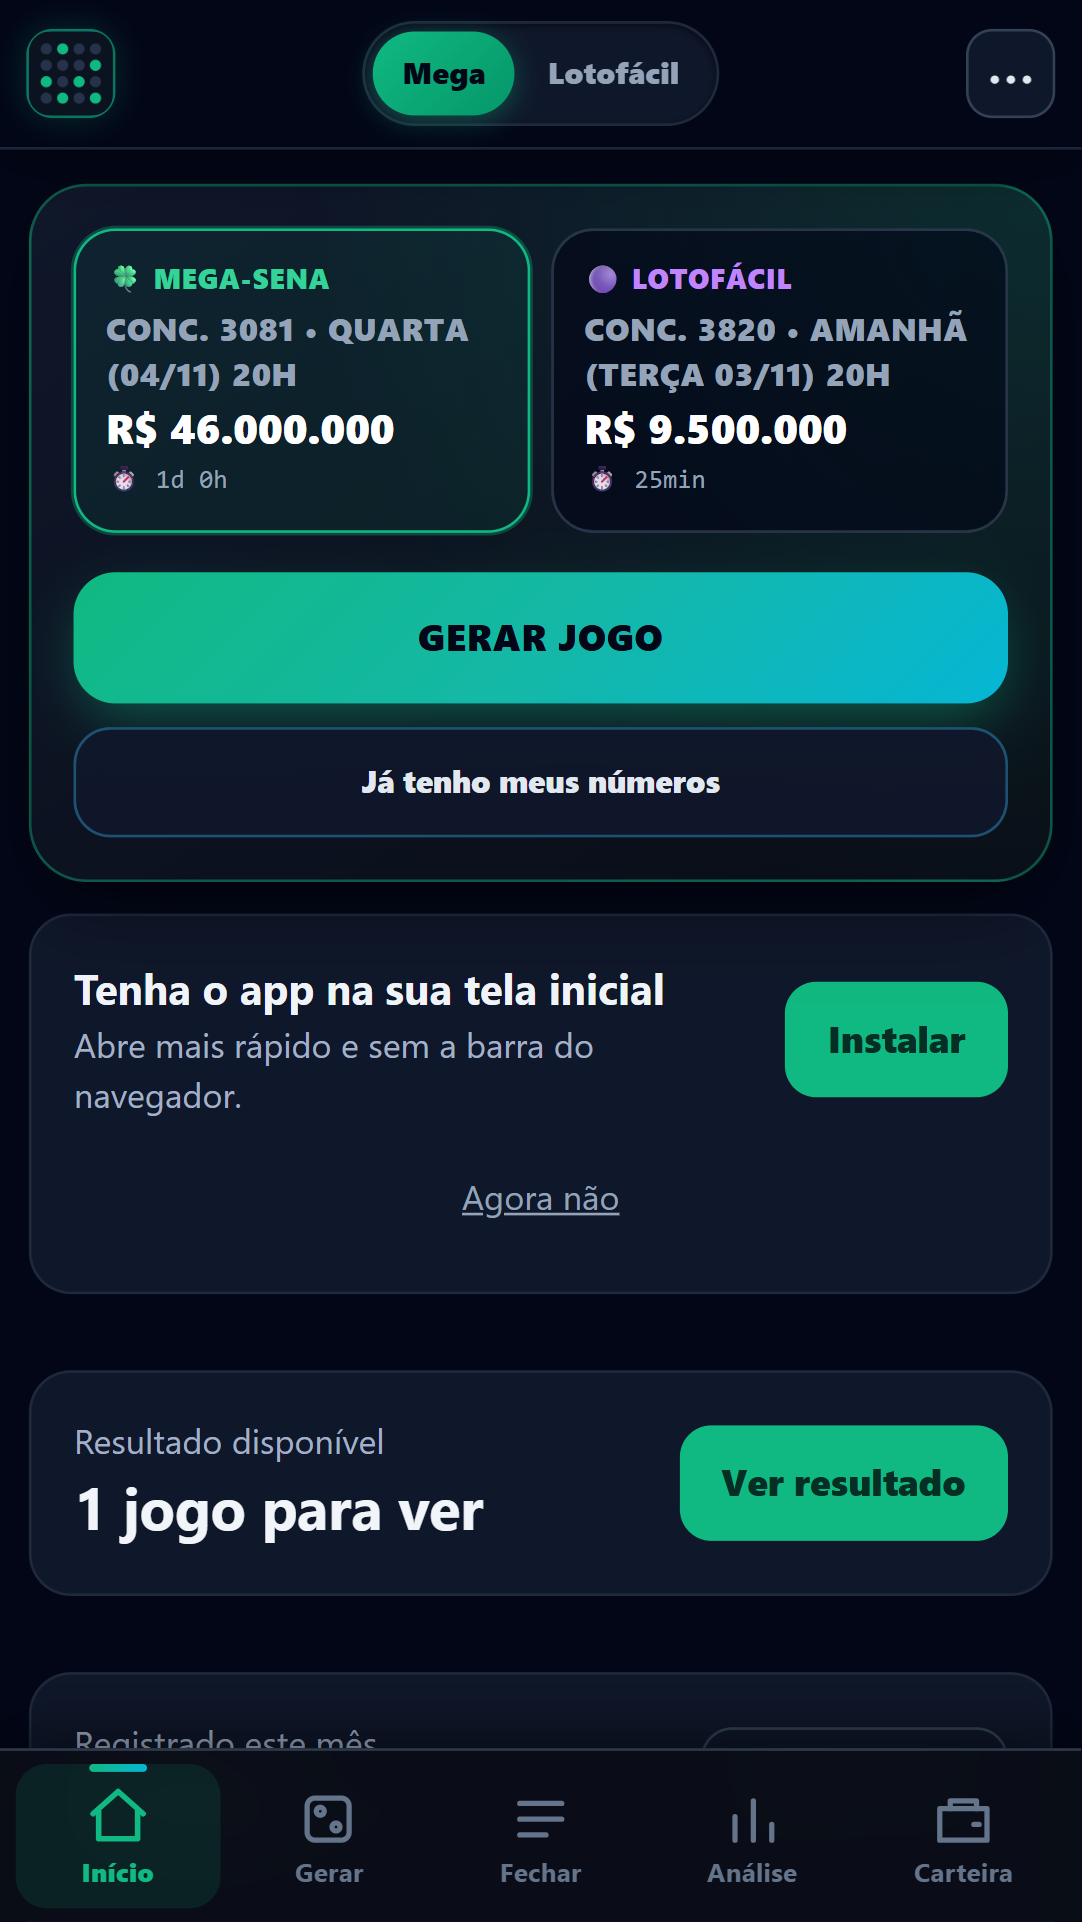
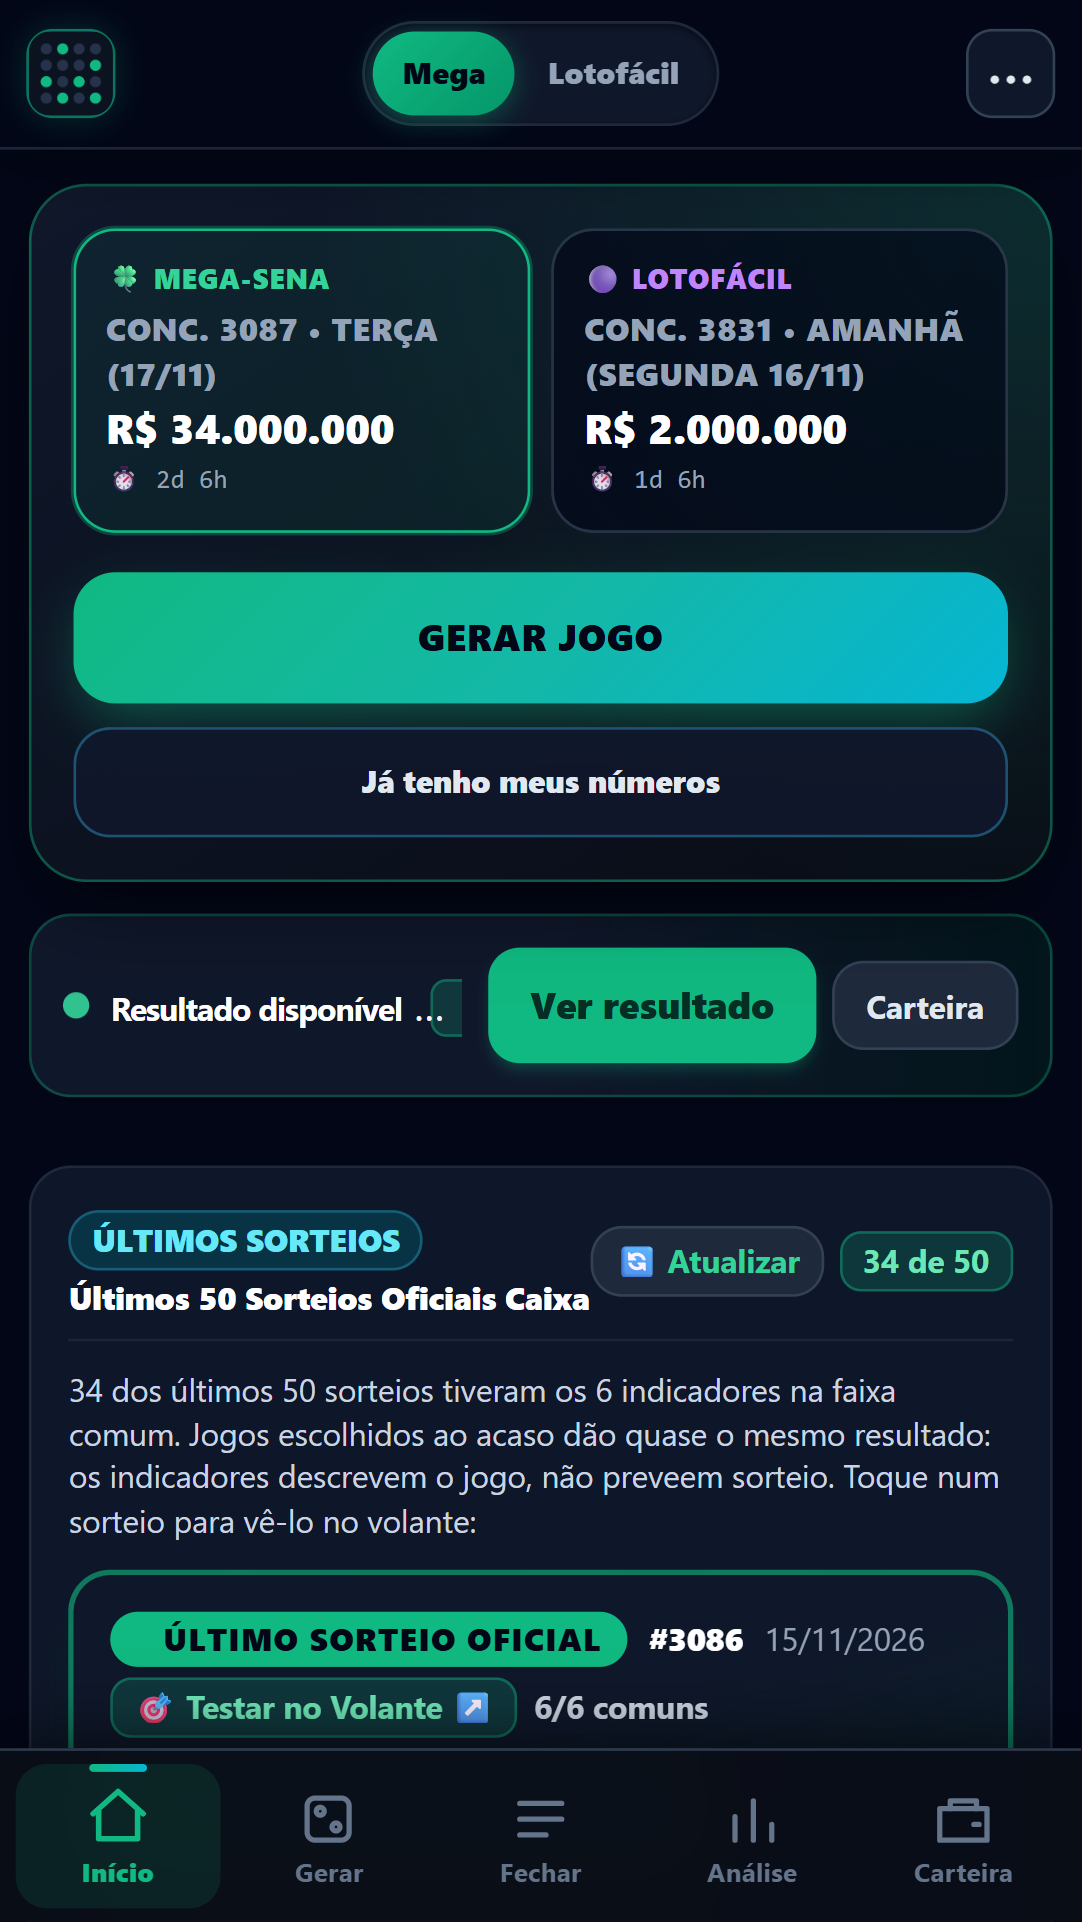
chore(play): capturas no modo loja, ficha, privacidade e historico
- Capturas da loja refeitas como no app da loja (sem venda nem botao
  de instalar), com a tela Gerar nova e uma do bolao. O gerador ganhou
  --so-capturas para nao refazer as artes do Instagram.
- Cartao "Instalar" nunca aparece no app da loja.
- Ficha: bolao sem movimentar dinheiro, IDs de usuario na seguranca
  dos dados e instrucao de acesso com conta de teste para o revisor.
- Privacidade nomeia a VBJ Solucoes como controladora.
- Historico registra o ciclo de 15/11 e as pendencias do Console.

diff --git a/index.html b/index.html
@@ -8,65 +8,65 @@
       localStorage.removeItem('loterias_nasa_historico');
     } catch (_) {}
   </script>
-  <script src="./js/error-trap.js?v=20261115.02"></script>
+  <script src="./js/error-trap.js?v=20261115.03"></script>
   <link rel="manifest" href="./manifest.json" />
-  <script src="./supabase/config.js?v=20261115.02"></script>
+  <script src="./supabase/config.js?v=20261115.03"></script>
   <script src="https://cdn.jsdelivr.net/npm/@supabase/supabase-js@2"></script>
   <!-- Google Identity Services (Google Sign-In) -->
   <script src="https://accounts.google.com/gsi/client" async defer></script>
   <!-- Redesign Meu Volante PRO (Resizable Desktop Sidebar + Clear Typography) -->
-  <link rel="stylesheet" href="./css/redesign.css?v=20261115.02" />
-  <script src="./js/redesign.js?v=20261115.02" defer></script>
+  <link rel="stylesheet" href="./css/redesign.css?v=20261115.03" />
+  <script src="./js/redesign.js?v=20261115.03" defer></script>
   <!-- Upgrade Modal (Elegant Checkout) -->
-  <link rel="stylesheet" href="./css/upgrade-modal.css?v=20261115.02" />
-  <script src="./js/upgrade-modal.js?v=20261115.02" defer></script>
+  <link rel="stylesheet" href="./css/upgrade-modal.css?v=20261115.03" />
+  <script src="./js/upgrade-modal.js?v=20261115.03" defer></script>
   <!-- Gerar Simplificada (Mobile-first, accessibility) -->
-  <link rel="stylesheet" href="./css/gerar-simplificado.css?v=20261115.02" />
+  <link rel="stylesheet" href="./css/gerar-simplificado.css?v=20261115.03" />
   <!-- Admin Dashboard (Professional Management) -->
-  <link rel="stylesheet" href="./css/admin-dashboard.css?v=20261115.02" />
-  <script src="./js/admin-dashboard.js?v=20261115.02" defer></script>
-  <script src="./js/admin-charts.js?v=20261115.02" defer></script>
+  <link rel="stylesheet" href="./css/admin-dashboard.css?v=20261115.03" />
+  <script src="./js/admin-dashboard.js?v=20261115.03" defer></script>
+  <script src="./js/admin-charts.js?v=20261115.03" defer></script>
   <!-- Micro-interactions (Sounds, Haptic, Animations) -->
-  <script src="./js/micro-interactions.js?v=20261115.02" defer></script>
+  <script src="./js/micro-interactions.js?v=20261115.03" defer></script>
   <!-- Science Gate (enforcement real do paywall + teaser dos 6 testes) -->
   <!-- Créditos de análise grátis (3 por cadastro, sem prazo) -->
-  <script src="./js/creditos-gratis.js?v=20261115.02" defer></script>
-  <script src="./js/science-gate.js?v=20261115.02" defer></script>
+  <script src="./js/creditos-gratis.js?v=20261115.03" defer></script>
+  <script src="./js/science-gate.js?v=20261115.03" defer></script>
   <!-- Caminho A: "Já tenho meus números" -->
-  <script src="./js/analisar-numeros.js?v=20261115.02" defer></script>
+  <script src="./js/analisar-numeros.js?v=20261115.03" defer></script>
   <!-- OAuth Login (Google + Meta) -->
-  <script src="./js/oauth-login.js?v=20261115.02" defer></script>
+  <script src="./js/oauth-login.js?v=20261115.03" defer></script>
   <!-- Testadores VIP & Feedbacks Periódicos -->
-  <script src="./js/feedback-testadores.js?v=20261115.02" defer></script>
+  <script src="./js/feedback-testadores.js?v=20261115.03" defer></script>
   <!-- Lead Capture (Email/WhatsApp on Home) -->
-  <script src="./js/lead-capture.js?v=20261115.02" defer></script>
+  <script src="./js/lead-capture.js?v=20261115.03" defer></script>
   <!-- Menu Fix (ensure bottom tab bar always visible) -->
-  <script src="./js/menu-fix.js?v=20261115.02" defer></script>
+  <script src="./js/menu-fix.js?v=20261115.03" defer></script>
   <!-- Acesso direto ao portal da Caixa (carrega antes de quem consome) -->
-  <script src="./js/caixa-api.js?v=20261115.02" defer></script>
+  <script src="./js/caixa-api.js?v=20261115.03" defer></script>
   <!-- Sorteios Reais (Real lottery data via APIs) -->
-  <script src="./js/sorteios-reais.js?v=20261115.02" defer></script>
+  <script src="./js/sorteios-reais.js?v=20261115.03" defer></script>
   <!-- Conferência de bilhetes contra o resultado oficial da Caixa -->
-  <script src="./js/conferencia-real.js?v=20261115.02" defer></script>
+  <script src="./js/conferencia-real.js?v=20261115.03" defer></script>
   <!-- Histórico oficial de concursos (base das análises estatísticas) -->
-  <script src="./js/historico-oficial.js?v=20261115.02" defer></script>
-  <script src="./js/historico-real.js?v=20261115.02" defer></script>
+  <script src="./js/historico-oficial.js?v=20261115.03" defer></script>
+  <script src="./js/historico-real.js?v=20261115.03" defer></script>
   <!-- Assinatura: o servidor decide quem é PRO -->
-  <script src="./js/assinatura.js?v=20261115.02" defer></script>
+  <script src="./js/assinatura.js?v=20261115.03" defer></script>
   <!-- Checkout real via Asaas (PIX e cartão) -->
-  <script src="./js/checkout-asaas.js?v=20261115.02" defer></script>
+  <script src="./js/checkout-asaas.js?v=20261115.03" defer></script>
   <!-- Contexto: remove a venda externa quando roda como app da Play Store -->
-  <script src="./js/contexto-loja.js?v=20261115.02" defer></script>
+  <script src="./js/contexto-loja.js?v=20261115.03" defer></script>
   <!-- Simulador Retrospectivo ("E se eu tivesse jogado?") -->
-  <script src="./js/simulador-retrospectivo.js?v=20261115.02" defer></script>
+  <script src="./js/simulador-retrospectivo.js?v=20261115.03" defer></script>
   <!-- Espelho de Volantes para Impressão A4 e PDF -->
-  <script src="./js/volante-impressao.js?v=20261115.02" defer></script>
+  <script src="./js/volante-impressao.js?v=20261115.03" defer></script>
   <!-- Programa de testadores da Google Play -->
-  <script src="./js/testadores-vip.js?v=20261115.02" defer></script>
+  <script src="./js/testadores-vip.js?v=20261115.03" defer></script>
   <!-- Gestão de Carteira em Lotes (High-Capacity UX) -->
-  <script src="./js/carteira-gestao.js?v=20261115.02" defer></script>
+  <script src="./js/carteira-gestao.js?v=20261115.03" defer></script>
   <!-- Telemetria & Calibração Global de Jogos dos Usuários -->
-  <script src="./js/admin-telemetria.js?v=20261115.02" defer></script>
+  <script src="./js/admin-telemetria.js?v=20261115.03" defer></script>
   <link rel="apple-touch-icon" href="./icon-192.png" />
   <meta charset="UTF-8" />
   <meta name="viewport" content="width=device-width, initial-scale=1.0, , viewport-fit=cover" />
@@ -90,7 +90,7 @@
 
   <!-- Chart.js for Admin Dashboard -->
   <script src="https://cdnjs.cloudflare.com/ajax/libs/Chart.js/3.9.1/chart.min.js" defer></script>
-  <link rel="stylesheet" href="./css/tailwind.css?v=20261115.02" />
+  <link rel="stylesheet" href="./css/tailwind.css?v=20261115.03" />
   <script>
       
     // =========================================================================
@@ -2203,21 +2203,21 @@
 
   </main>
 
-  <script src="./js/app.js?v=20261115.02"></script>
-  <link rel="stylesheet" href="./css/fluxo-jogo.css?v=20261115.02" />
-  <script src="./js/cadastro.js?v=20261115.02" defer></script>
-  <script src="./js/eventos.js?v=20261115.02" defer></script>
-  <script src="./js/migrar-app.js?v=20261115.02" defer></script>
-  <script src="./js/instalar.js?v=20261115.02" defer></script>
-  <script src="./js/painel-dono.js?v=20261115.02" defer></script>
-  <script src="./js/vip.js?v=20261115.02" defer></script>
-  <script src="./js/conta.js?v=20261115.02" defer></script>
-  <script src="./js/gastos.js?v=20261115.02" defer></script>
-  <script src="./js/ritual.js?v=20261115.02" defer></script>
-  <script src="./js/fluxo-jogo.js?v=20261115.02" defer></script>
-  <script src="./js/tela-gerar.js?v=20261115.02" defer></script>
-  <script src="./js/bolao.js?v=20261115.02" defer></script>
-  <script src="./js/boas-vindas.js?v=20261115.02" defer></script>
-  <script src="js/whatsapp-share.js?v=20261115.02"></script>
+  <script src="./js/app.js?v=20261115.03"></script>
+  <link rel="stylesheet" href="./css/fluxo-jogo.css?v=20261115.03" />
+  <script src="./js/cadastro.js?v=20261115.03" defer></script>
+  <script src="./js/eventos.js?v=20261115.03" defer></script>
+  <script src="./js/migrar-app.js?v=20261115.03" defer></script>
+  <script src="./js/instalar.js?v=20261115.03" defer></script>
+  <script src="./js/painel-dono.js?v=20261115.03" defer></script>
+  <script src="./js/vip.js?v=20261115.03" defer></script>
+  <script src="./js/conta.js?v=20261115.03" defer></script>
+  <script src="./js/gastos.js?v=20261115.03" defer></script>
+  <script src="./js/ritual.js?v=20261115.03" defer></script>
+  <script src="./js/fluxo-jogo.js?v=20261115.03" defer></script>
+  <script src="./js/tela-gerar.js?v=20261115.03" defer></script>
+  <script src="./js/bolao.js?v=20261115.03" defer></script>
+  <script src="./js/boas-vindas.js?v=20261115.03" defer></script>
+  <script src="js/whatsapp-share.js?v=20261115.03"></script>
 </body>
 </html>

diff --git a/privacidade.html b/privacidade.html
@@ -66,9 +66,9 @@
 
 <h2>1. Quem é o responsável pelos seus dados</h2>
 <p>
-  O controlador dos dados pessoais tratados neste aplicativo é o responsável
-  pelo Meu Volante PRO, que pode ser contatado pelo e-mail
-  <a href="mailto:contato@pd.dev.br">contato@pd.dev.br</a>.
+  O controlador dos dados pessoais tratados neste aplicativo é a VBJ Soluções
+  Empresariais Inteligentes LTDA, responsável pelo Meu Volante PRO, que pode ser
+  contatada pelo e-mail <a href="mailto:contato@pd.dev.br">contato@pd.dev.br</a>.
 </p>
 <p>
   Este é também o canal para dúvidas sobre esta política e para o exercício dos

diff --git a/js/app.js b/js/app.js
@@ -387,7 +387,7 @@
 
       // Registrar Service Worker com Verificação Imediata de Atualizações
       if ('serviceWorker' in navigator) {
-        navigator.serviceWorker.register('./sw.js?v=20261115.02', { scope: './' })
+        navigator.serviceWorker.register('./sw.js?v=20261115.03', { scope: './' })
           .then((reg) => {
             console.log('[Meu Volante PRO] Service Worker registrado. Verificando atualizações...');
             reg.update(); // força verificação no servidor imediatamente

diff --git a/sw.js b/sw.js
@@ -3,8 +3,8 @@
 // Estratégia: Cache-First para assets estáticos, Network-First para dados
 // =========================================================================
 
-const CACHE_NAME = 'loterias-nasa-pro-v20261115.02';
-const CACHE_STATIC = 'nasa-static-v20261115.02';
+const CACHE_NAME = 'loterias-nasa-pro-v20261115.03';
+const CACHE_STATIC = 'nasa-static-v20261115.03';
 
 // Assets críticos para funcionamento offline
 const ASSETS_TO_CACHE = [

diff --git a/js/instalar.js b/js/instalar.js
@@ -22,7 +22,8 @@ window.addEventListener('appinstalled', () => {
 function appJaInstalado() {
   return window.matchMedia('(display-mode: standalone)').matches
     || window.navigator.standalone === true
-    || document.referrer.startsWith('android-app://');
+    || document.referrer.startsWith('android-app://')
+    || Boolean(window.contextoLoja?.ativo?.());
 }
 
 function ehIphone() {

diff --git a/HISTORICO_MEMORIA_PROJETO.md b/HISTORICO_MEMORIA_PROJETO.md
@@ -190,3 +190,32 @@ Antes de mexer, três análises só de leitura (engenharia, jogador/UX e dados) 
 
 ### Regra 4 atualizada
 Rodar `npm run ci` antes de qualquer commit. São 58 testes.
+
+---
+
+## 7. CICLO DE 15/11/2026 — AUDITORIAS E PREPARAÇÃO PARA A GOOGLE PLAY
+
+Três auditorias só de leitura (qualidade, calendário e Google Play) revisaram o que foi feito em 14/11.
+
+### Corrigido e publicado
+- **Datas do próximo sorteio** (`78e1a43`): o app empurrava domingo para terça e juntava duas datas ("Terça (17/11) • 15/11/2026 às 20h"). Desde 19/07/2026 a Caixa sorteia no domingo às 11h. Agora só vale a data oficial da Caixa; sem ela, aparece só o número do concurso. Jogos salvos com duas datas se corrigem ao abrir o app.
+- **Cache** (`a5e7f57`): o `index.html` apagava o cache do app a cada abertura.
+- **Tela inicial** (`a5e7f57`): saíram "100% APROVADO", "Nota 99/100" e "6/6 OK" fixos.
+- **Auditoria de qualidade** (`f6823b9`): gerar com 17 dezenas ou mais travava o app; salvar usava o lote antigo; o mesmo jogo podia ser salvo duas vezes; bolão salvo de novo duplicava na nuvem; voltar ao Gerar deixava a aba Bolão aberta; outros itens menores.
+- **Google Play** (`f6823b9`): modo loja persistente no aparelho; plano liberado mesmo depois do login; sem selos PRO, chip de plano, botão de testadores, "Conhecer recursos" e atalho para o portal de apostas no app da loja; textos de "nota", "calibração", "ciência" e "viciadas" removidos.
+- Capturas da loja refeitas como no app da loja, com uma do bolão. Política de privacidade nomeia a VBJ Soluções Empresariais Inteligentes LTDA.
+
+### Fatos conferidos (fontes oficiais, 15/11/2026)
+- **Teste fechado:** a página oficial (support.google.com/googleplay/android-developer/answer/14151465) exige **12 testadores por 14 dias** só para contas **pessoais** criadas depois de 13/11/2023. A conta é de organização (VBJ Soluções); conferir no Painel do Console se a exigência aparece. O número "20 testadores" das seções 1 e 4 está desatualizado.
+- **API alvo:** app novo precisa mirar API 36. O pacote `android/MeuVolantePRO-v6.aab` (versionCode 6, targetSdk 36) foi gerado em 15/11/2026 e assinado com a chave de upload.
+- **Pagamentos:** não há exceção oficial ao Play Billing para o Brasil. O app da loja não pode mostrar preço nem levar a pagamento externo.
+- **Gradle no Windows:** não compila em pasta com acento ("Vitório PC"). Copiar `android/` para uma pasta sem acento antes de rodar `gradlew bundleRelease`.
+
+### Pendências
+- **Dono, no Play Console:** ativar o Play App Signing e copiar a SHA-256 da chave de assinatura para o `.well-known/assetlinks.json` (sem isso o app abre com barra de endereço); criar uma conta de teste confirmada para o revisor; responder classificação de conteúdo, público-alvo (só 18+, "Restrict Minor Access") e Segurança dos dados (tabela em `marketing/ficha-google-play.md`).
+- **Contagem regressiva** da tela inicial ainda conta até as 20h, mesmo no domingo.
+- **Calendários fixos** em `js/sorteios-reais.js`, `js/caixa-api.js` e `supabase/functions/fetch-resultado` não têm domingo.
+- **Bolão na nuvem:** `custoProprio`, `bolaoId` e `tipo` não sobem para o Supabase (precisa de colunas novas).
+
+### Regra 4 atualizada
+Rodar `npm run ci` antes de qualquer commit. São 65 testes.

diff --git a/marketing/ficha-google-play.md b/marketing/ficha-google-play.md
@@ -7,14 +7,15 @@
 
 **Descrição completa:**
 
-Organize seus jogos de Mega-Sena e Lotofácil em um só lugar, com dados oficiais e matemática de verdade.
+Organize seus jogos de Mega-Sena e Lotofácil em um só lugar, com resultados oficiais e contas exatas.
 
 O QUE VOCÊ PODE FAZER
 • Salvar jogos e ver o resultado de cada um.
 • Definir um limite mensal e acompanhar quanto registrou em jogos.
 • Ver a chance exata e o custo de cada jogo antes de decidir.
 • Gerar uma combinação aleatória ou escolher suas dezenas.
-• Calcular as cotas de um bolão e enviar um resumo ao grupo.
+• Organizar um bolão: jogos, cotas e quem já pagou, com resumo pronto para o grupo. O app não recebe nem movimenta dinheiro.
+• Separar os palpites da Mega da Virada dos concursos normais.
 • Consultar estatísticas dos últimos 500 concursos.
 
 ANTES DE USAR
@@ -30,7 +31,7 @@ Uso exclusivo para maiores de 18 anos. Jogue com responsabilidade e só com um v
 - **E-mail de suporte:** contato@pd.dev.br
 
 ## Imagens
-Pasta `marketing/play/`: ícone de 512 px, destaque de 1024 x 500 e capturas de celular.
+Pasta `marketing/play/`: ícone de 512 px, destaque de 1024 x 500 e 6 capturas de celular (1082 x 1922), refeitas em 15/11/2026 como no app da loja: Gerar, Início, resultado, Carteira, estatísticas e bolão.
 
 ## Rascunho das declarações (confirmar no Console)
 - **Categoria:** Ferramentas ou Produtividade, sem usar "Jogos".
@@ -43,6 +44,7 @@ Pasta `marketing/play/`: ícone de 512 px, destaque de 1024 x 500 e capturas de 
 | Dado | Coleta | Finalidade | Obrigatório |
 |---|---|---|---|
 | Nome | Sim | Conta | Sim |
+| IDs de usuário (identificador da conta) | Sim | Conta, sincronização dos jogos | Sim |
 | E-mail | Sim | Conta, contato | Sim |
 | Celular | Sim | Conta, contato | Sim |
 | Interações no app e identificador aleatório do aparelho | Sim | Análise, correção de falhas | Sim |
@@ -51,4 +53,10 @@ Pasta `marketing/play/`: ícone de 512 px, destaque de 1024 x 500 e capturas de 
 Dados em trânsito usam HTTPS. O usuário pode pedir a exclusão pela página acima, mas o fluxo completo ainda precisa de teste e das tabelas no banco.
 
 ## Acesso para a análise da Google
-O app exige cadastro simples, sem senha. Instrução para o revisor: preencher nome, e-mail e celular válidos, e confirmar os 18 anos.
+O cadastro pede nome, e-mail, celular e senha, e pode exigir a confirmação do e-mail. O revisor não consegue confirmar um e-mail, então é preciso **criar antes uma conta de teste já confirmada** e informar no Console (Conteúdo do app > Acesso ao app):
+
+- E-mail: (conta de teste criada pelo dono)
+- Senha: (senha dessa conta)
+- Instrução: "Na primeira tela, confirme ter 18 anos ou mais. Toque em Entrar e use o e-mail e a senha acima. Todos os recursos ficam liberados no app da loja; o app não vende nada dentro dele."
+
+No app aberto pela loja não há preços, planos nem link de pagamento (modo loja em `js/contexto-loja.js`).
